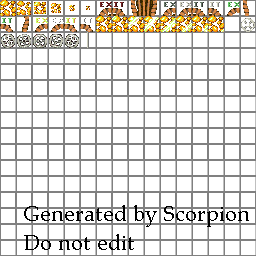
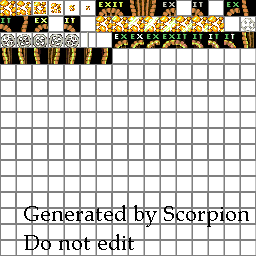
updated gfx for closed and open exit; new anim for opening exit

diff --git a/Blocks.tsx b/Blocks.tsx
@@ -56,21 +56,13 @@
       <property name="Name" value="exit_closed_left_top_1_block" type="string" />
     </properties>
   </tile>
-  <tile id="11">
-    <properties>
-      <property name="Name" value="exit_closed_left_top_2_block" type="string" />
-    </properties>
-  </tile>
+  <tile id="11" />
   <tile id="12">
     <properties>
       <property name="Name" value="exit_closed_right_top_1_block" type="string" />
     </properties>
   </tile>
-  <tile id="13">
-    <properties>
-      <property name="Name" value="exit_closed_right_top_2_block" type="string" />
-    </properties>
-  </tile>
+  <tile id="13" />
   <tile id="14">
     <properties>
       <property name="Name" value="exit_open_left_top_0_block" type="string" />
@@ -96,21 +88,13 @@
       <property name="Name" value="exit_open_left_top_1_block" type="string" />
     </properties>
   </tile>
-  <tile id="19">
-    <properties>
-      <property name="Name" value="exit_open_left_top_2_block" type="string" />
-    </properties>
-  </tile>
+  <tile id="19" />
   <tile id="20">
     <properties>
       <property name="Name" value="exit_open_right_top_1_block" type="string" />
     </properties>
   </tile>
-  <tile id="21">
-    <properties>
-      <property name="Name" value="exit_open_right_top_2_block" type="string" />
-    </properties>
-  </tile>
+  <tile id="21" />
   <tile id="22">
     <properties>
       <property name="Name" value="gold_shimmer_0_block" type="string" />
@@ -194,6 +178,86 @@
   <tile id="38">
     <properties>
       <property name="Name" value="liftchain_empty_block" type="string" />
+    </properties>
+  </tile>
+  <tile id="39">
+    <properties>
+      <property name="Name" value="exit_opening_left_top_0_block" type="string" />
+    </properties>
+  </tile>
+  <tile id="40">
+    <properties>
+      <property name="Name" value="exit_opening_left_top_1_block" type="string" />
+    </properties>
+  </tile>
+  <tile id="41">
+    <properties>
+      <property name="Name" value="exit_opening_left_top_2_block" type="string" />
+    </properties>
+  </tile>
+  <tile id="42">
+    <properties>
+      <property name="Name" value="exit_opening_left_top_3_block" type="string" />
+    </properties>
+  </tile>
+  <tile id="43">
+    <properties>
+      <property name="Name" value="exit_opening_right_top_0_block" type="string" />
+    </properties>
+  </tile>
+  <tile id="44">
+    <properties>
+      <property name="Name" value="exit_opening_right_top_1_block" type="string" />
+    </properties>
+  </tile>
+  <tile id="45">
+    <properties>
+      <property name="Name" value="exit_opening_right_top_2_block" type="string" />
+    </properties>
+  </tile>
+  <tile id="46">
+    <properties>
+      <property name="Name" value="exit_opening_right_top_3_block" type="string" />
+    </properties>
+  </tile>
+  <tile id="47">
+    <properties>
+      <property name="Name" value="exit_opening_left_bottom_0_block" type="string" />
+    </properties>
+  </tile>
+  <tile id="48">
+    <properties>
+      <property name="Name" value="exit_opening_left_bottom_1_block" type="string" />
+    </properties>
+  </tile>
+  <tile id="49">
+    <properties>
+      <property name="Name" value="exit_opening_left_bottom_2_block" type="string" />
+    </properties>
+  </tile>
+  <tile id="50">
+    <properties>
+      <property name="Name" value="exit_opening_left_bottom_3_block" type="string" />
+    </properties>
+  </tile>
+  <tile id="51">
+    <properties>
+      <property name="Name" value="exit_opening_right_bottom_0_block" type="string" />
+    </properties>
+  </tile>
+  <tile id="52">
+    <properties>
+      <property name="Name" value="exit_opening_right_bottom_1_block" type="string" />
+    </properties>
+  </tile>
+  <tile id="53">
+    <properties>
+      <property name="Name" value="exit_opening_right_bottom_2_block" type="string" />
+    </properties>
+  </tile>
+  <tile id="54">
+    <properties>
+      <property name="Name" value="exit_opening_right_bottom_3_block" type="string" />
     </properties>
   </tile>
 </tileset>
